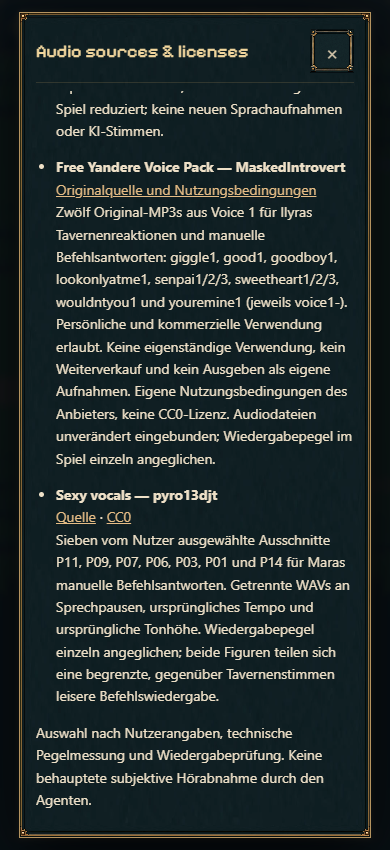
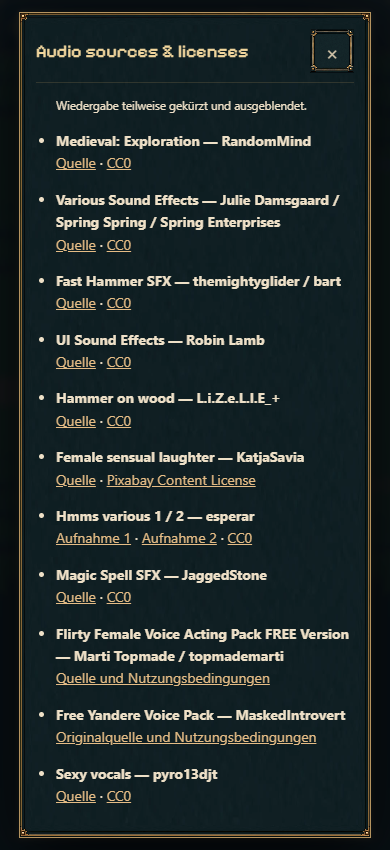
Keep in-game credits concise

Changed region(s): [[0.0923, 0.1224, 0.8923, 0.9482]]

diff --git a/experiments/idle-bastion/audio-credits.html b/experiments/idle-bastion/audio-credits.html
@@ -2,19 +2,19 @@
 <html lang="de"><head><meta charset="utf-8"><meta name="viewport" content="width=device-width,initial-scale=1"><title>SPIRE · Audioquellen</title>
 <style>body{max-width:800px;margin:32px auto;padding:0 20px;background:#152126;color:#f2e5ce;font:16px/1.6 Arial,sans-serif}a{color:#e5bc85}li{margin:20px 0}h1{font-size:28px}</style></head><body>
 <h1>SPIRE · Audioquellen</h1><p><a href="./index.html">Zurück zum Spiel</a></p>
-<main data-credit-content><p>Ausgewählte Dateien, Quelle und Bearbeitung · Stand 27.10.2026. Die Lizenzen gelten für die jeweiligen Audiowerke.</p>
+<main data-credit-content>
 <ul>
-<li><strong>Inn Music — tcarisland</strong><br><a href="https://opengameart.org/content/inn-music">Quelle</a> · <a href="https://creativecommons.org/licenses/by/4.0/">CC BY 4.0</a><br>inn_music.mp3, im Spiel inn-music.mp3. Unveränderte Audiodatei, Lautstärke und Übergang zur Kartenmusik im Spiel geregelt.</li>
-<li><strong>Fantasy SFX Pack Vol 1 — JC Sounds</strong><br><a href="https://opengameart.org/content/jc-sounds-fantasy-sfx-pack-vol-1">Quelle</a> · <a href="https://creativecommons.org/licenses/by/4.0/">CC BY 4.0</a><br>Bow Arrow Draw, Shoot und Hit jeweils 01/02; Single_Fantasy SFX Pack Vol 1_Ice Spell_Buildup.wav (im Spiel ice-buildup.wav; ersetzt die bisherigen Ice-Shard-Abschuss-/Einschlagklänge). WAVs unverändert kopiert und umbenannt. Draw wird als kurzer Endausschnitt mit Abblende abgespielt; Pegel und Wiederholungsfrequenz im Spiel angepasst.</li>
-<li><strong>Medieval: Exploration — RandomMind</strong><br><a href="https://opengameart.org/content/medieval-exploration">Quelle</a> · <a href="https://creativecommons.org/publicdomain/zero/1.0/">CC0</a><br>Exploration.mp3 unverändert kopiert, Dateiname kleingeschrieben; dezente Wiedergabelautstärke.</li>
-<li><strong>Various Sound Effects — Julie Damsgaard / Spring Spring / Spring Enterprises</strong><br><a href="https://opengameart.org/content/various-sound-effects-0">Quelle</a> · <a href="https://creativecommons.org/publicdomain/zero/1.0/">CC0</a><br>break_stone.wav, unverändert als stone-hit.wav.</li>
-<li><strong>Fast Hammer SFX — themightyglider / bart</strong><br><a href="https://opengameart.org/content/fast-hammer-sfx">Quelle</a> · <a href="https://creativecommons.org/publicdomain/zero/1.0/">CC0</a><br>craft.ogg nach Float-PCM-WAV dekodiert, keine zusätzliche verlustbehaftete Kompression. Ursprünglich aus <a href="https://opengameart.org/content/68-workshop-sounds">workshop – dull hammering.wav</a>.</li>
-<li><strong>UI Sound Effects — Robin Lamb</strong><br><a href="https://opengameart.org/content/ui-sound-effects-button-clicks-user-feedback-notifications">Quelle</a> · <a href="https://creativecommons.org/publicdomain/zero/1.0/">CC0</a><br>alarm.wav, chimes.wav, click_1.wav und Ding.wav unverändert; im Spiel alarm.wav, gift.wav, click.wav und tower-upgrade.wav. Ausgangsbibliotheken VCSL und VSCO 2 CE.</li>
-<li><strong>Hammer on wood — L.i.Z.e.L.l.E_+</strong><br><a href="https://freesound.org/people/L.i.Z.e.L.l.E_%2B/sounds/707864/">Quelle</a> · <a href="https://creativecommons.org/publicdomain/zero/1.0/">CC0</a><br>707864__lizelle__hammer-on-wood.wav, als tower-build.wav. Ausschnitt 0,23–1,75 s, Tempo ×1,3 ohne Tonhöhenänderung, kurze Ein-/Ausblende; PCM-WAV.</li>
-<li><strong>Female sensual laughter — KatjaSavia</strong><br><a href="https://pixabay.com/sound-effects/people-female-sensual-laughter-218077/">Quelle</a> · <a href="https://pixabay.com/service/license-summary/">Pixabay Content License</a><br>katjasavia-female-sensual-laughter-218077.mp3 unverändert als succubus-laugh.mp3. Bestandteil des Bosszaubers, keine eigenständige Soundbibliothek; Lautstärke und Wiedergabeende im Spiel gesteuert.</li>
-<li><strong>Hmms various 1 / 2 — esperar</strong><br><a href="https://freesound.org/people/esperar/sounds/170767/">Aufnahme 1</a> · <a href="https://freesound.org/people/esperar/sounds/170766/">Aufnahme 2</a> · <a href="https://creativecommons.org/publicdomain/zero/1.0/">CC0</a><br>Nur in der <a href="./voice-check.html">Hörvergleichsseite</a>: 24 nummerierte Ausschnitte mit kurzen Schnittblenden, Originaltempo/-tonhöhe. Noch keine Verwendung als Charakterstimmen im Spiel.</li>
-<li><strong>Magic Spell SFX — JaggedStone</strong><br><a href="https://opengameart.org/content/magic-spell-sfx">Quelle</a> · <a href="https://creativecommons.org/publicdomain/zero/1.0/">CC0</a><br>magical_1.ogg und magical_3.ogg nach Float-PCM-WAV dekodiert (mara-spell.wav / ilyra-spell.wav), keine zusätzliche verlustbehaftete Kompression. Unterschiedliche Wiedergabepegel.</li>
-<li><strong>Flirty Female Voice Acting Pack FREE Version — Marti Topmade / topmademarti</strong><br><a href="https://topmademarti.itch.io/flirty-female-voice-acting-pack-free-version">Quelle und Nutzungsbedingungen</a><br>Zehn flirty_*.wav-Dateien unverändert, zufällige Reaktionen auf Maras bestätigte Berührungen. Persönliche/kommerzielle Verwendung mit Namensnennung erlaubt; kein Weiterverkauf oder eigenständiges Weiterverteilen des Packs. Verwendung als integrierte Spielstimme, keine separate Download-/Hörbibliothek. Pegel im Spiel reduziert; keine neuen Sprachaufnahmen oder KI-Stimmen.</li>
-<li><strong>Free Yandere Voice Pack — MaskedIntrovert</strong><br><a href="https://maskedintrovert.itch.io/free-yandere-voice-pack">Originalquelle und Nutzungsbedingungen</a><br>Zwölf Original-MP3s aus Voice 1 für Ilyras Tavernenreaktionen und manuelle Befehlsantworten: giggle1, good1, goodboy1, lookonlyatme1, senpai1/2/3, sweetheart1/2/3, wouldntyou1 und youremine1 (jeweils voice1-). Persönliche und kommerzielle Verwendung erlaubt. Keine eigenständige Verwendung, kein Weiterverkauf und kein Ausgeben als eigene Aufnahmen. Eigene Nutzungsbedingungen des Anbieters, keine CC0-Lizenz. Audiodateien unverändert eingebunden; Wiedergabepegel im Spiel einzeln angeglichen.</li>
-<li><strong>Sexy vocals — pyro13djt</strong><br><a href="https://freesound.org/people/pyro13djt/sounds/337997/">Quelle</a> · <a href="https://creativecommons.org/publicdomain/zero/1.0/">CC0</a><br>Sieben vom Nutzer ausgewählte Ausschnitte P11, P09, P07, P06, P03, P01 und P14 für Maras manuelle Befehlsantworten. Getrennte WAVs an Sprechpausen, ursprüngliches Tempo und ursprüngliche Tonhöhe. Wiedergabepegel einzeln angeglichen; beide Figuren teilen sich eine begrenzte, gegenüber Tavernenstimmen leisere Befehlswiedergabe.</li>
-</ul><p>Auswahl nach Nutzerangaben, technische Pegelmessung und Wiedergabeprüfung. Keine behauptete subjektive Hörabnahme durch den Agenten.</p></main></body></html>
+<li><strong>Inn Music — tcarisland</strong><br><a href="https://opengameart.org/content/inn-music">Quelle</a> · <a href="https://creativecommons.org/licenses/by/4.0/">CC BY 4.0</a></li>
+<li><strong>Fantasy SFX Pack Vol 1 — JC Sounds</strong><br><a href="https://opengameart.org/content/jc-sounds-fantasy-sfx-pack-vol-1">Quelle</a> · <a href="https://creativecommons.org/licenses/by/4.0/">CC BY 4.0</a><br><small>Wiedergabe teilweise gekürzt und ausgeblendet.</small></li>
+<li><strong>Medieval: Exploration — RandomMind</strong><br><a href="https://opengameart.org/content/medieval-exploration">Quelle</a> · <a href="https://creativecommons.org/publicdomain/zero/1.0/">CC0</a></li>
+<li><strong>Various Sound Effects — Julie Damsgaard / Spring Spring / Spring Enterprises</strong><br><a href="https://opengameart.org/content/various-sound-effects-0">Quelle</a> · <a href="https://creativecommons.org/publicdomain/zero/1.0/">CC0</a></li>
+<li><strong>Fast Hammer SFX — themightyglider / bart</strong><br><a href="https://opengameart.org/content/fast-hammer-sfx">Quelle</a> · <a href="https://creativecommons.org/publicdomain/zero/1.0/">CC0</a></li>
+<li><strong>UI Sound Effects — Robin Lamb</strong><br><a href="https://opengameart.org/content/ui-sound-effects-button-clicks-user-feedback-notifications">Quelle</a> · <a href="https://creativecommons.org/publicdomain/zero/1.0/">CC0</a></li>
+<li><strong>Hammer on wood — L.i.Z.e.L.l.E_+</strong><br><a href="https://freesound.org/people/L.i.Z.e.L.l.E_%2B/sounds/707864/">Quelle</a> · <a href="https://creativecommons.org/publicdomain/zero/1.0/">CC0</a></li>
+<li><strong>Female sensual laughter — KatjaSavia</strong><br><a href="https://pixabay.com/sound-effects/people-female-sensual-laughter-218077/">Quelle</a> · <a href="https://pixabay.com/service/license-summary/">Pixabay Content License</a></li>
+<li><strong>Hmms various 1 / 2 — esperar</strong><br><a href="https://freesound.org/people/esperar/sounds/170767/">Aufnahme 1</a> · <a href="https://freesound.org/people/esperar/sounds/170766/">Aufnahme 2</a> · <a href="https://creativecommons.org/publicdomain/zero/1.0/">CC0</a></li>
+<li><strong>Magic Spell SFX — JaggedStone</strong><br><a href="https://opengameart.org/content/magic-spell-sfx">Quelle</a> · <a href="https://creativecommons.org/publicdomain/zero/1.0/">CC0</a></li>
+<li><strong>Flirty Female Voice Acting Pack FREE Version — Marti Topmade / topmademarti</strong><br><a href="https://topmademarti.itch.io/flirty-female-voice-acting-pack-free-version">Quelle und Nutzungsbedingungen</a></li>
+<li><strong>Free Yandere Voice Pack — MaskedIntrovert</strong><br><a href="https://maskedintrovert.itch.io/free-yandere-voice-pack">Originalquelle und Nutzungsbedingungen</a></li>
+<li><strong>Sexy vocals — pyro13djt</strong><br><a href="https://freesound.org/people/pyro13djt/sounds/337997/">Quelle</a> · <a href="https://creativecommons.org/publicdomain/zero/1.0/">CC0</a></li>
+</ul></main></body></html>

diff --git a/experiments/idle-bastion/enemy-credits.html b/experiments/idle-bastion/enemy-credits.html
@@ -1,4 +1,5 @@
 <!doctype html><html lang="de"><head><meta charset="utf-8"><meta name="viewport" content="width=device-width,initial-scale=1"><title>SPIRE · Gegnergrafiken und Lizenzen</title><style>body{max-width:850px;margin:24px auto;padding:0 18px;background:#17241f;color:#f5e5c8;font:16px/1.6 system-ui}a{color:#e7bd79}</style></head><body><h1>SPIRE · Gegnergrafiken</h1><p><a href="./index.html">Zum Spiel</a> · <a href="./enemy-lab.html">Gegnervergleich</a></p>
-<main data-credit-content><h2>Frakassets · Free Monster Pack</h2><p>Pixelgrafiken von <strong>Frakassets</strong> aus dem <a href="https://frakassets.itch.io/free-monster-pack">Free Monster Pack</a>, unter <a href="https://creativecommons.org/licenses/by/4.0/">Creative Commons Attribution 4.0 International</a>.</p><p>Verwendet werden Top-down-Originalframes mit Kontur und ihren JSON-Animationsdaten. Änderungen: Lit-/Shine-Layer zusammengeführt, benötigte Bewegungsbilder in kompakte Atlanten umgepackt, Bodenanker anhand der Pivotdaten angeglichen; beim Moospilz zusätzlich eine grüne kosmetische Kappenpalette. Keine Normalmaps, zusätzliche Glättung oder fremden Schatten. Diese Lizenz betrifft die Grafiken, nicht automatisch den gesamten Spielcode.</p>
-<h2>Foozle</h2><p>Die bisherigen Originalgegner stammen aus Foozle-Paketen unter <a href="https://creativecommons.org/publicdomain/zero/1.0/">CC0</a>. Goblin Berserker, Skeleton Grunt und Cultist: Foozle / Baldur. <a href="https://foozlecc.itch.io/">Quelle</a>. Das lokale Skeleton-Archiv stimmt bytegenau mit dem bereits importierten Archiv überein; keine zweite Kopie.</p>
-</main></body></html>
+<main data-credit-content><ul>
+<li><strong>Free Monster Pack — Frakassets</strong><br><a href="https://frakassets.itch.io/free-monster-pack">Quelle</a> · <a href="https://creativecommons.org/licenses/by/4.0/">CC BY 4.0</a><br><small>Bearbeitet: Ebenen zusammengeführt, Atlanten und Bodenanker angepasst; Moospilz umgefärbt.</small></li>
+<li><strong>Gegnergrafiken — Foozle / Baldur</strong><br><a href="https://foozlecc.itch.io/">Quelle</a> · <a href="https://creativecommons.org/publicdomain/zero/1.0/">CC0</a></li>
+</ul></main></body></html>

diff --git a/experiments/idle-bastion/ROADMAP.md b/experiments/idle-bastion/ROADMAP.md
@@ -5,6 +5,7 @@
 
 - [x] MaskedIntrovert / Free Yandere Voice Pack mit Originalquelle und Anbieterbedingungen in Audio-Credits und Ilyra-README ergänzt. Persönliche/kommerzielle Verwendung, keine eigenständige Verwendung, kein Weiterverkauf/Urheberschaftsanspruch; ausdrücklich keine CC0-Lizenz. Kein behaupteter Bytevergleich mit dem Anbieterarchiv.
 - [x] Audio- und Gegnercredits aus den Einstellungen als scrollbares Fenster im Spiel; Schließen/Escape führt ins unveränderte Menü zurück. Dieselben mitgelieferten Quellen wie die bestehenden HTML-Seiten, keine Repository-Verlinkung. Urheber-/Lizenzlinks bleiben erreichbar. Spielmechanik, Stimmen und Speicherformat unverändert.
+- [x] Auf anschließenden Nutzerwunsch beide Creditslisten auf Werk, Urheber, Quellen-/Lizenzlinks und erforderliche kurze Änderungsvermerke reduziert. Technische Details, Dateilisten und Prüfhinweise bleiben außerhalb der Spielcredits.
 - [x] Produktionsbuild bestanden. Gebautes Spiel bei 1280/390/320 px geprüft: beide Creditsansichten, DE-/EN-Bedienelemente, Schließen/Escape/Fokusrückgabe, kein neuer Tab beim Öffnen, kein GitHub-Repository-Link, sichtbarer Schließenknopf und keine Browserfehler. Credittexte bleiben wie bisher deutsch. [Messdaten](../../artifacts/idle-bastion/acceptance/credits/credits-check-results.json) · [Hochkantansicht](../../artifacts/idle-bastion/acceptance/credits/credits-390.png). Visuelle Eigenprüfung, keine zusätzliche Nutzerabnahme behauptet.
 
 **Einstieg · lebendiges HQ, einheitliche Hinweise und Gesamtfortschritt — 26.10.2026, Umsetzung und Main-Veröffentlichung beauftragt.**
